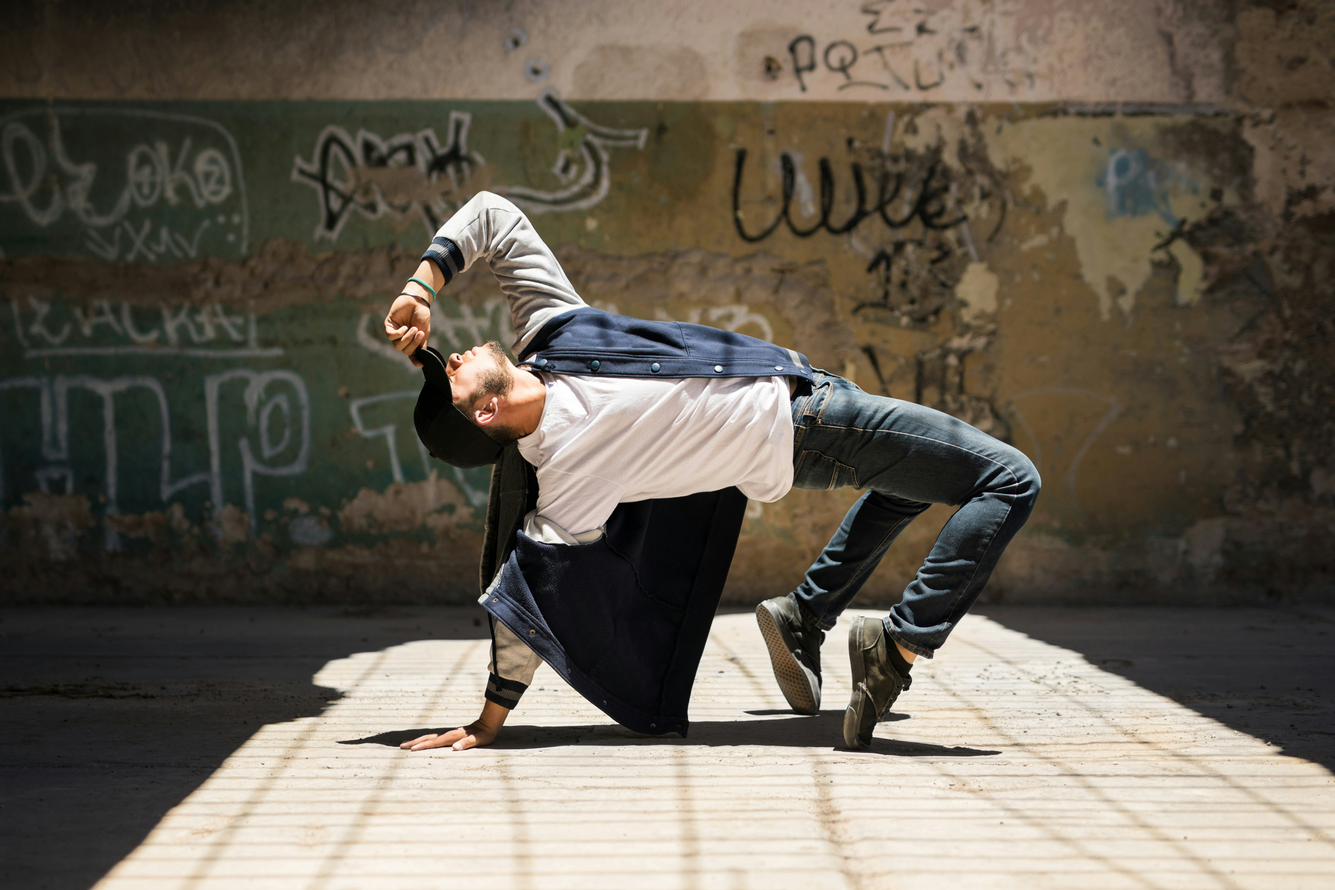
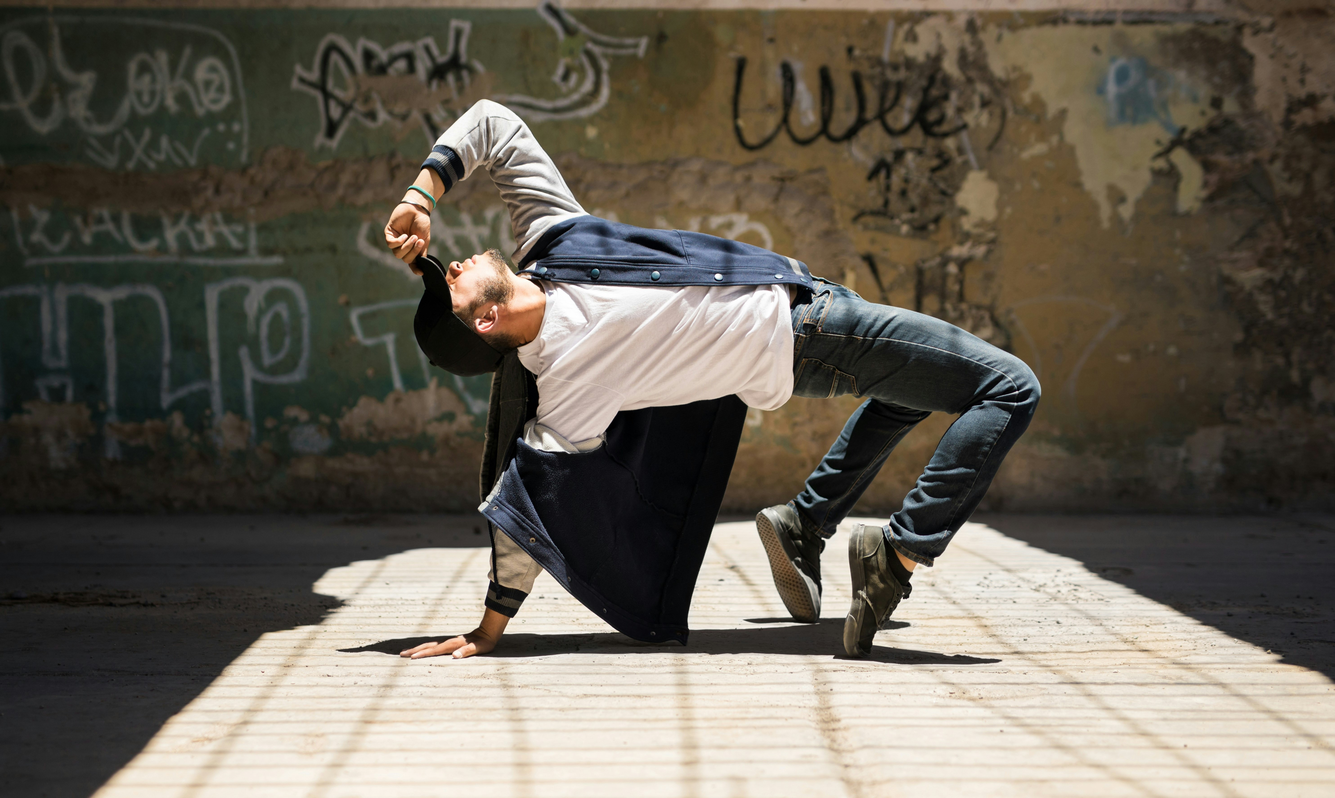
carousel is offically adjust !!!!

diff --git a/DanceKingdom/src/styles/homePageStyles.css b/DanceKingdom/src/styles/homePageStyles.css
@@ -10,6 +10,7 @@
   
   .carousel-container {
     width:100%;
+    height: 80vh; 
     overflow: hidden;   
   }
   
@@ -22,11 +23,11 @@
   .carousel-image {
     max-width:100%;
     width: 100%;
-    height: auto;
     opacity: 0; 
     position: absolute;
     transition: opacity 1s ease; 
-    object-fit: 100% 40%;
+    height: 80vh; /* Adjust to match the height of the carousel container */
+    object-fit: cover; /* Ensures the image covers the entire container */
   }
   
   .carousel-image.active {
